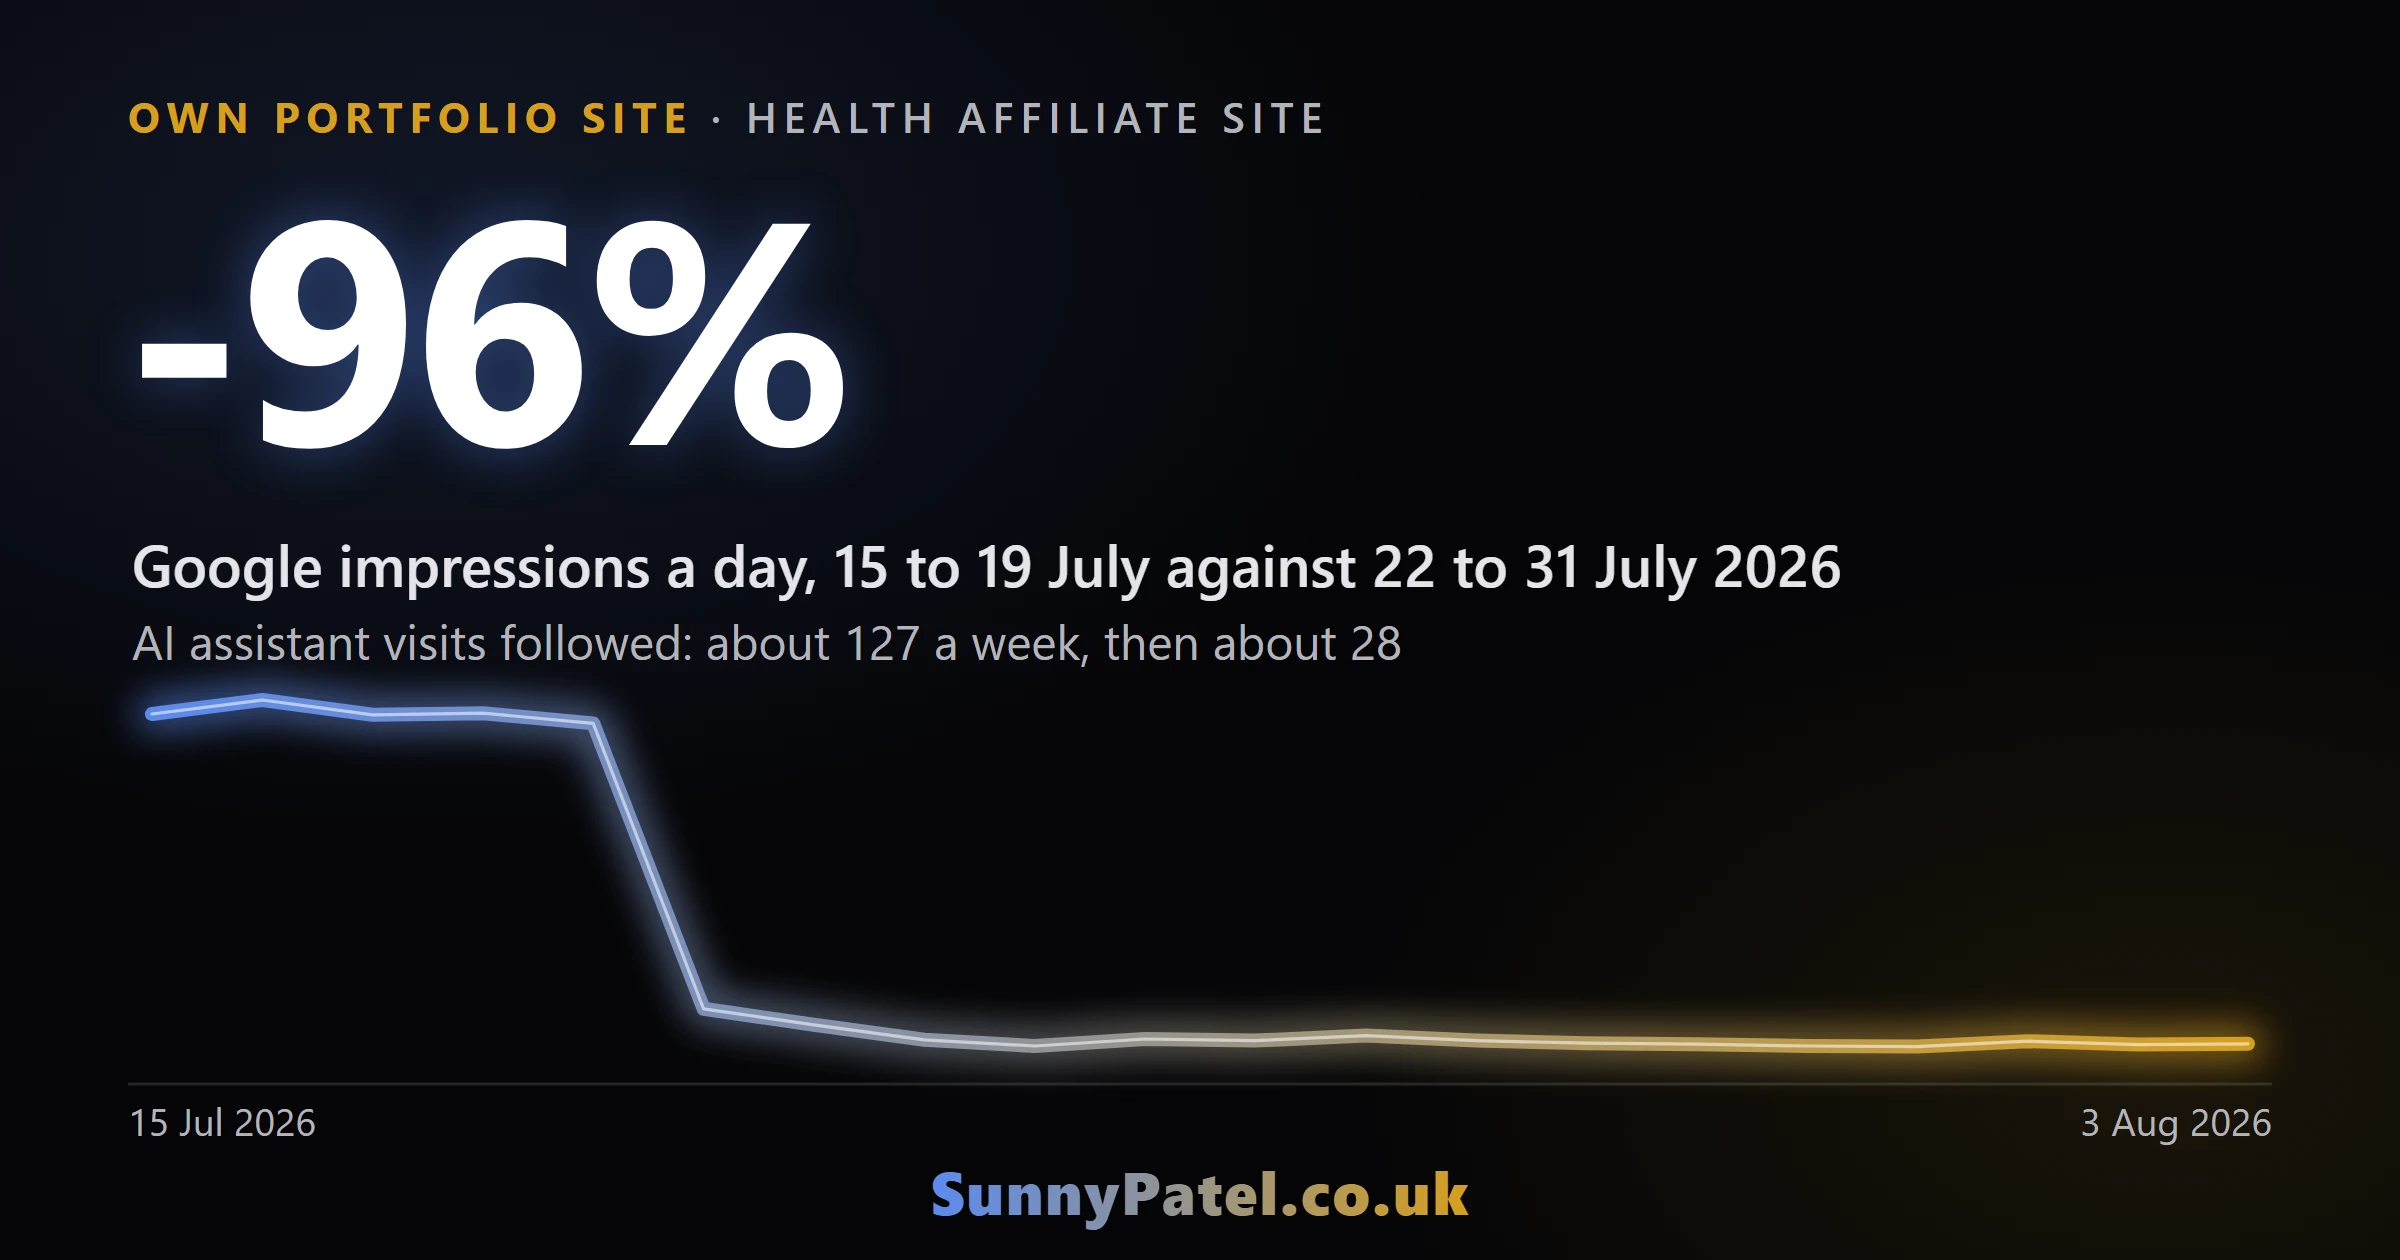
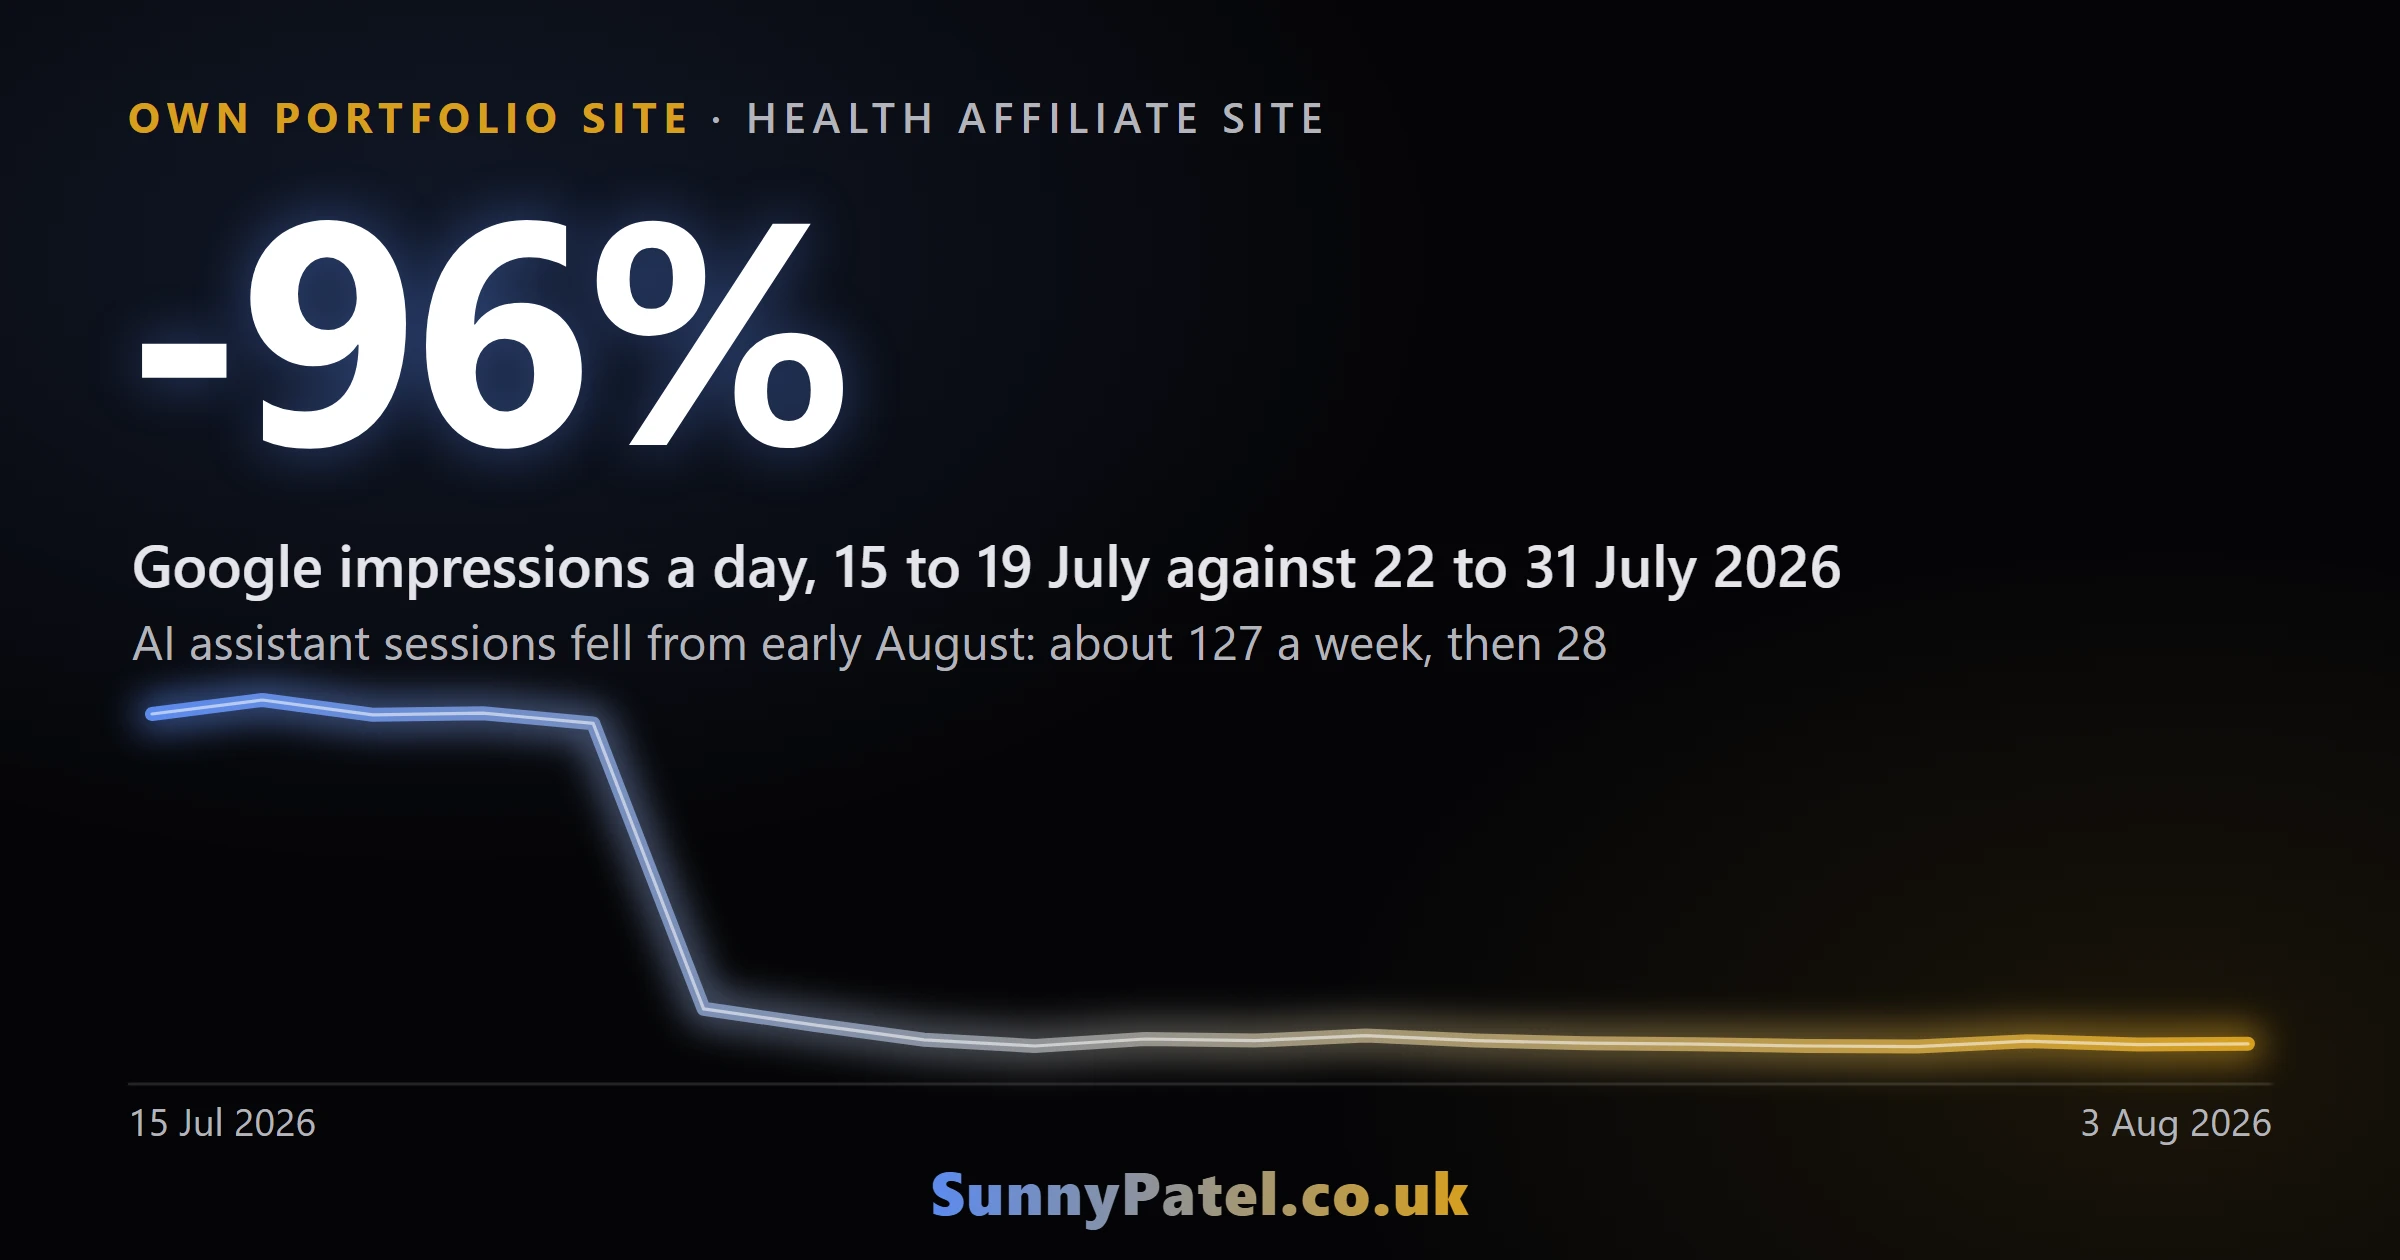
Case studies: fix anonymity, causation and attribution wording after review
Remove case-study links from the domain-naming Google update post, drop the health page's link to it, state sequence not causation, qualify GA4 attribution and the 96% comparison, date the manual-action record, add EV build sources and generated-data limits, expand FAQs, regenerate the health image caption.

Claude-Session: https://claude.ai/code/session_01Cy62SrAUqFF2F8jN2e3AKv

Changed region(s): [[0.1562, 0.4952, 0.6875, 0.5262]]

diff --git a/src/components/portfolio/portfolio-detail.tsx b/src/components/portfolio/portfolio-detail.tsx
@@ -41,7 +41,7 @@ export function PortfolioDetail({
   renderedContent: React.ReactNode;
 }) {
   const meta = [
-    { label: "Client", value: project.client },
+    { label: /^own/i.test(project.client ?? "") ? "Ownership" : "Client", value: project.client },
     { label: "Industry", value: project.industry },
     { label: "Services", value: project.services },
     { label: "Year", value: project.year },
